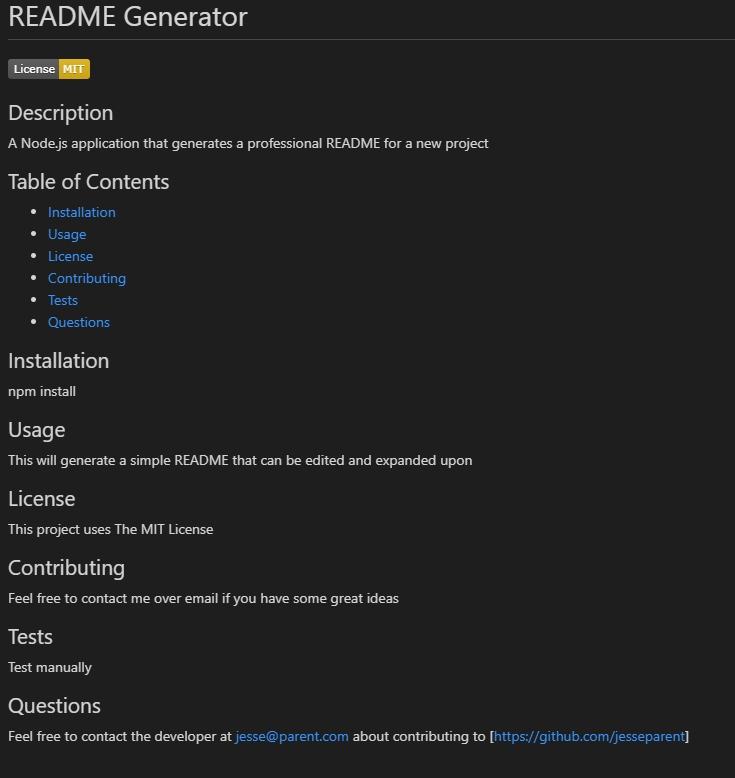
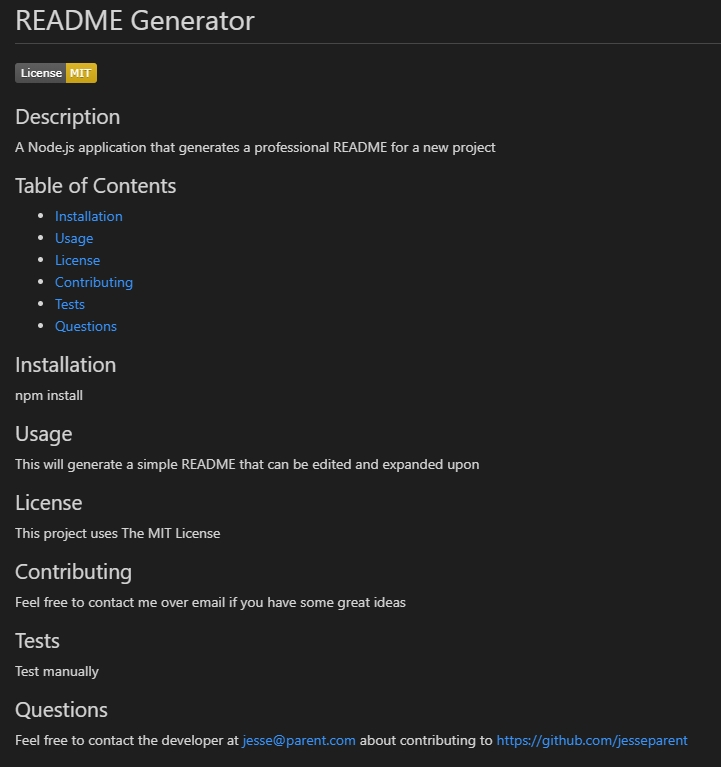
updated screenshots

Changed region(s): [[0.0, 0.0, 0.9459, 0.9896]]

diff --git a/utils/generateMarkdown.js b/utils/generateMarkdown.js
@@ -69,7 +69,7 @@ ${data.contributing}
 ${data.test}
 
 ## Questions
-Feel free to contact the developer at ${data.email} about contributing to [https://github.com/${data.ghName}]
+Feel free to contact the developer at ${data.email} about contributing to https://github.com/${data.ghName}
 `;
 }
 

diff --git a/README.md b/README.md
@@ -30,7 +30,7 @@ Feel free to contact me over email if you have some great ideas
 Test manually
 
 ## Questions
-Feel free to contact the developer at jesse@parent.com about contributing to [https://github.com/jesseparent]
+Feel free to contact the developer at jesse@parent.com about contributing to https://github.com/jesseparent
 
 ## Screenshots
 The user entering data into the command line interface:
@@ -43,4 +43,4 @@ The README.md as rendered:
 ![Image](./screenshots/preview.jpg)
 
 ## Video
-A video demo of this project can be found at [https://screencast-o-matic.com/watch/cYQuVcdpOo]
+A video demo of this project can be found at https://screencast-o-matic.com/watch/cYQuVcdpOo
